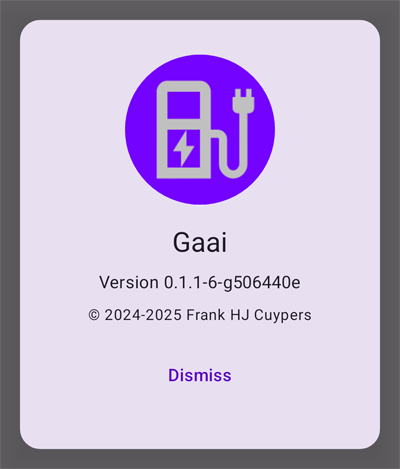
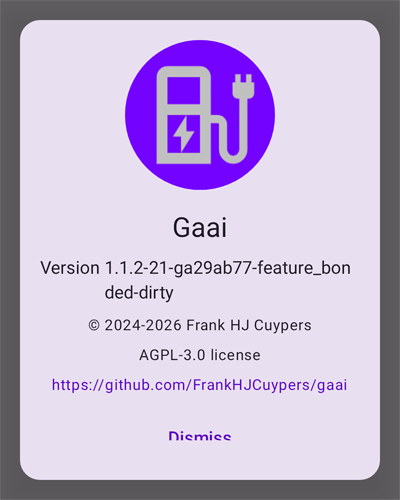
feat: Update copyright years in About screen

diff --git a/app/src/main/java/be/cuypers_ghys/gaai/ui/home/About.kt b/app/src/main/java/be/cuypers_ghys/gaai/ui/home/About.kt
@@ -99,7 +99,7 @@ fun AboutDialog(onDismissRequest: () -> Unit) {
           Text(text = BuildConfig.VERSION_NAME, style = MaterialTheme.typography.bodyMedium)
         }
         Spacer(modifier = Modifier.height(8.dp))
-        Text(text = "© 2024-2025 Frank HJ Cuypers", style = MaterialTheme.typography.bodySmall)
+        Text(text = "© 2024-2026 Frank HJ Cuypers", style = MaterialTheme.typography.bodySmall)
         Spacer(modifier = Modifier.height(8.dp))
         Text(text = "AGPL-3.0 license", style = MaterialTheme.typography.bodySmall)
         Spacer(modifier = Modifier.height(8.dp))
